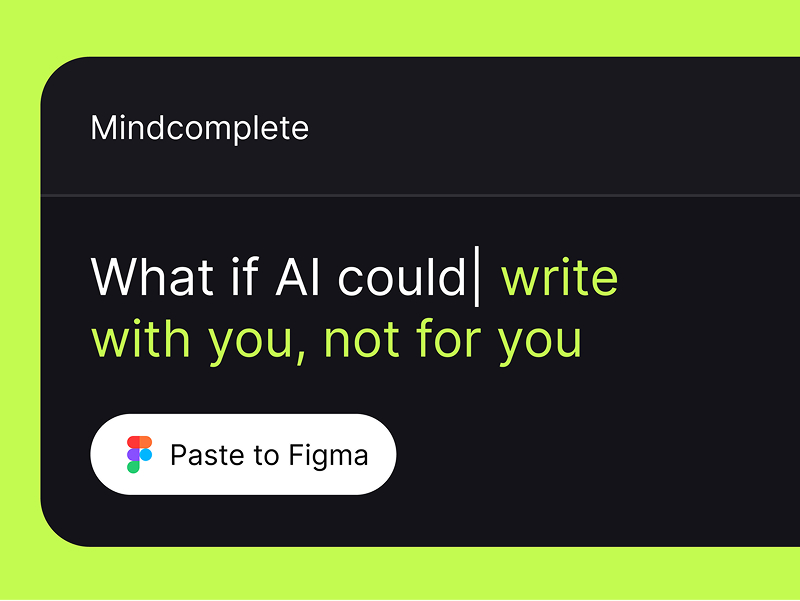
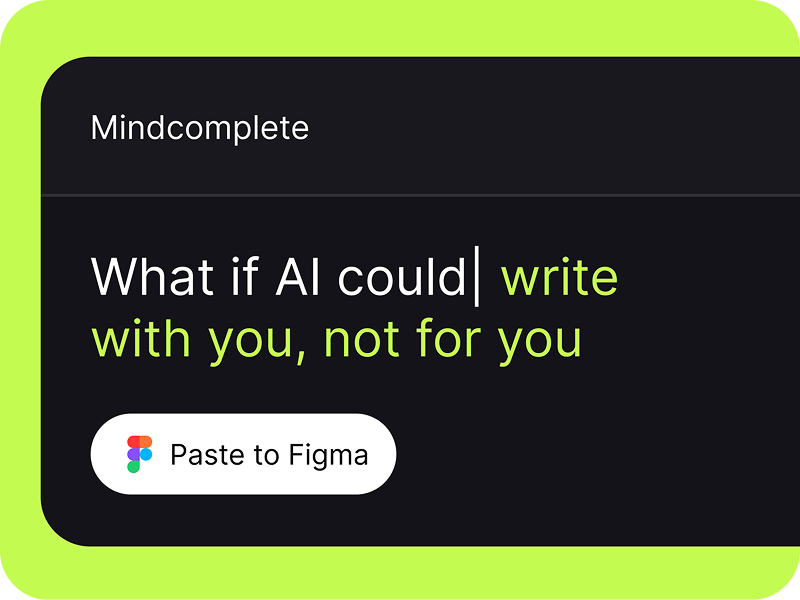
feat: unify typography tokens with 400/500 weights

diff --git a/public/landing.html b/public/landing.html
@@ -8,6 +8,7 @@
     <meta name="description"
         content="Instead of acting based on prompts, it analyzes what you have written, along with uploaded text and images, to understand exactly what you're working on.">
     <script src="https://cdn.tailwindcss.com"></script>
+    <link rel="icon" type="image/png" href="/favicon.png">
     <link rel="preconnect" href="https://fonts.googleapis.com">
     <link rel="preconnect" href="https://fonts.gstatic.com" crossorigin>
     <link href="https://fonts.googleapis.com/css2?family=Google+Sans+Flex:wght@100..900&display=swap" rel="stylesheet">
@@ -67,18 +68,18 @@
 <body class="overflow-x-hidden">
 
     <!-- Header -->
-    <header class="w-full h-[100px] flex items-center justify-between px-12 bg-background">
-        <a href="/" class="text-[26px] font-medium text-text leading-none">
-            Mind<span class="text-logo-complete">|complete</span>
+    <header class="w-full h-[100px] flex items-center justify-between px-6 lg:px-12 bg-background">
+        <a href="/" class="flex items-center">
+            <img src="/mindcomplete-logo.svg" alt="Mindcomplete" class="h-8">
         </a>
         <a href="/app"
-            class="bg-accent text-background h-12 px-5 py-3.5 rounded-full text-lg font-normal flex items-center justify-center hover:opacity-90 transition-opacity">
+            class="bg-accent text-background h-[60px] px-7 rounded-full text-lg font-normal flex items-center justify-center hover:opacity-90 transition-opacity">
             Try for free
         </a>
     </header>
 
     <!-- Hero Section -->
-    <section class="w-full flex flex-col gap-9 items-center px-12 py-[60px]">
+    <section class="w-full flex flex-col gap-9 items-center px-6 lg:px-12 py-[60px]">
         <div class="flex flex-col gap-6 items-center text-center max-w-[680px]">
             <h1 class="text-[60px] font-medium leading-none text-text">
                 AI that writes<br>with you, not for you
@@ -89,16 +90,16 @@
             </p>
         </div>
         <a href="/app"
-            class="bg-accent text-background h-12 px-5 py-3.5 rounded-full text-lg font-normal flex items-center justify-center hover:opacity-90 transition-opacity">
+            class="bg-accent text-background h-[60px] px-7 rounded-full text-lg font-normal flex items-center justify-center hover:opacity-90 transition-opacity">
             Try for free
         </a>
     </section>
 
     <!-- Two Column Feature: Figma Plugin + Design with real copy -->
-    <section class="w-full px-12 py-16">
+    <section class="w-full px-6 lg:px-12 py-16">
         <div class="max-w-6xl mx-auto grid lg:grid-cols-2 gap-12 items-center">
             <!-- Left: Figma Plugin Mockup -->
-            <div class="rounded-[48px] overflow-hidden bg-surface aspect-[4/3]">
+            <div class="rounded-[30px] overflow-hidden bg-surface aspect-[4/3]">
                 <img src="/landing-image-1.jpg" alt="Mindcomplete Figma Plugin"
                     class="w-full h-full object-cover block">
             </div>
@@ -119,10 +120,10 @@
     </section>
 
     <!-- Two Column Feature: Writing Styles -->
-    <section class="w-full px-12 py-16">
+    <section class="w-full px-6 lg:px-12 py-16">
         <div class="max-w-6xl mx-auto grid lg:grid-cols-2 gap-12 items-center">
             <!-- Left: Your voice, amplified -->
-            <div class="flex flex-col gap-4">
+            <div class="flex flex-col gap-4 order-2 lg:order-1">
                 <span class="text-xs text-text/40 uppercase tracking-wider">Style Match</span>
                 <h2 class="text-[32px] font-medium leading-tight text-text">Your voice, amplified</h2>
                 <p class="text-lg text-text/60 leading-relaxed">
@@ -131,7 +132,7 @@
                 </p>
             </div>
             <!-- Right: Writing Styles Menu Image -->
-            <div class="rounded-[48px] overflow-hidden bg-surface aspect-[4/3]">
+            <div class="rounded-[30px] overflow-hidden bg-surface aspect-[4/3] order-1 lg:order-2">
                 <img src="/landing-image-2.jpg"
                     alt="Writing Styles - Social media, Storytelling, Professional, Ideation"
                     class="w-full h-full object-cover block">
@@ -140,10 +141,10 @@
     </section>
 
     <!-- Context Brain Section -->
-    <section class="w-full px-12 py-16">
+    <section class="w-full px-6 lg:px-12 py-16">
         <div class="max-w-6xl mx-auto grid lg:grid-cols-2 gap-12 items-center">
             <!-- Left: Context Cards Image -->
-            <div class="rounded-[48px] overflow-hidden bg-surface aspect-[4/3]">
+            <div class="rounded-[30px] overflow-hidden bg-surface aspect-[4/3]">
                 <img src="/landing-image-3.jpg" alt="Brand Guidelines and Strategy documents as context"
                     class="w-full h-full object-cover block">
             </div>
@@ -159,20 +160,20 @@
     </section>
 
     <!-- Image Generation Section -->
-    <section class="w-full px-12 py-16">
+    <section class="w-full px-6 lg:px-12 py-16">
         <div class="max-w-4xl mx-auto flex flex-col gap-6 items-center text-center">
             <h2 class="text-[40px] font-medium leading-tight text-text">Words become worlds</h2>
             <p class="text-lg text-text/60 leading-relaxed">
                 Describe a scene. Generate it. All without leaving your writing flow.
             </p>
         </div>
-        <div class="max-w-5xl mx-auto mt-10 rounded-[48px] overflow-hidden bg-surface aspect-video">
+        <div class="max-w-5xl mx-auto mt-10 rounded-[30px] overflow-hidden bg-surface aspect-video">
             <img src="/landing-image-4.jpg" alt="AI generated landscape" class="w-full h-full object-cover block">
         </div>
     </section>
 
     <!-- Final CTA Section -->
-    <section class="w-full px-12 py-24 flex flex-col items-center text-center">
+    <section class="w-full px-6 lg:px-12 py-24 flex flex-col items-center text-center">
         <h2 id="cta-heading" class="text-[48px] font-medium leading-tight text-text mb-10">
             Extend your <span class="rotating-word-container"><span class="rotating-word">thoughts</span></span>
         </h2>
@@ -183,18 +184,11 @@
     </section>
 
     <!-- Footer -->
-    <footer class="w-full px-12 py-8 flex items-center justify-between">
-        <a href="/" class="text-[26px] font-medium text-text leading-none">
-            Mind<span class="text-logo-complete">|complete</span>
-        </a>
-        <p class="text-sm text-text/60">
+    <footer class="w-full px-6 lg:px-12 py-8 flex items-center justify-center">
+        <p class="text-sm text-text/60 text-center">
             Mindcomplete ™ Made by <a href="https://ryadovoy.com" target="_blank"
                 class="text-accent hover:opacity-80 transition-opacity">Sergey Ryadovoy</a>
         </p>
-        <a href="https://buymeacoffee.com/ryadovoys" target="_blank"
-            class="bg-surface text-accent h-[60px] px-7 py-3.5 rounded-full text-lg font-normal flex items-center justify-center hover:opacity-90 transition-opacity">
-            Buy me a coffee
-        </a>
     </footer>
 
     <!-- GSAP for rotating word animation -->

diff --git a/public/styles.css b/public/styles.css
@@ -45,20 +45,43 @@
 }
 
 :root {
-  /* Typography - Light weight (300) per Figma (px not pt!) */
+  /* Typography - Unified Design System */
+
+  /* Display (Landing Headlines) */
+  --font-display-xl-size: 60px;
+  --font-display-xl-weight: 500;
+  --font-display-xl-line-height: 1.0;
+
+  --font-display-lg-size: 48px;
+  --font-display-lg-weight: 500;
+  --font-display-lg-line-height: 1.1;
+
+  --font-display-md-size: 40px;
+  --font-display-md-weight: 500;
+  --font-display-md-line-height: 1.15;
+
+  --font-display-sm-size: 32px;
+  --font-display-sm-weight: 500;
+  --font-display-sm-line-height: 1.2;
+
+  /* Headings (≥22px = weight 500) */
   --font-h1-size: 22px;
-  --font-h1-weight: 300;
+  --font-h1-weight: 500;
   --font-h2-size: 20px;
-  --font-h2-weight: 300;
+  --font-h2-weight: 500;
+
+  /* Body (<22px = weight 400) */
+  --font-body-large-size: 18px;
+  --font-body-large-weight: 400;
   --font-body-size: 16px;
-  --font-body-weight: 300;
+  --font-body-weight: 400;
   --font-body-small-size: 14px;
-  --font-body-small-weight: 300;
+  --font-body-small-weight: 400;
   --font-caption-size: 12px;
-  --font-caption-weight: 300;
+  --font-caption-weight: 400;
 
   /* Icons */
-  --icon-weight: 200;
+  --icon-weight: 300;
   --icon-size-sm: 24px;
   --icon-size-lg: 40px;
 
@@ -1285,7 +1308,7 @@ body.select-mode-active .inline-prediction {
   display: inline;
   font-family: 'Google Sans Flex', sans-serif;
   font-optical-sizing: auto;
-  font-weight: 200;
+  font-weight: var(--font-body-weight);
   color: var(--text-prediction);
   cursor: pointer;
   /* Prevent editing the prediction text */
@@ -1353,7 +1376,7 @@ body.mobile-touch:not(.select-mode-active) .inline-prediction {
   word-break: normal;
   hyphens: none;
   caret-color: var(--accent);
-  font-weight: 200;
+  font-weight: var(--font-body-weight);
 }
 
 .editor h1 {

diff --git a/public/login.html b/public/login.html
@@ -31,7 +31,7 @@
       align-items: center;
       font-family: 'Google Sans Flex', sans-serif;
       font-size: 18px;
-      font-weight: 400;
+      font-weight: 500;
       letter-spacing: -0.02em;
       white-space: nowrap;
       text-decoration: none;
@@ -94,8 +94,8 @@
       gap: 0.5rem;
       padding: 0.75rem 1.25rem;
       border-radius: 9999px;
-      font-size: 0.875rem;
-      font-weight: 500;
+      font-size: 14px;
+      font-weight: 400;
       transition: all 0.3s cubic-bezier(0.34, 1.56, 0.64, 1);
     }
 
